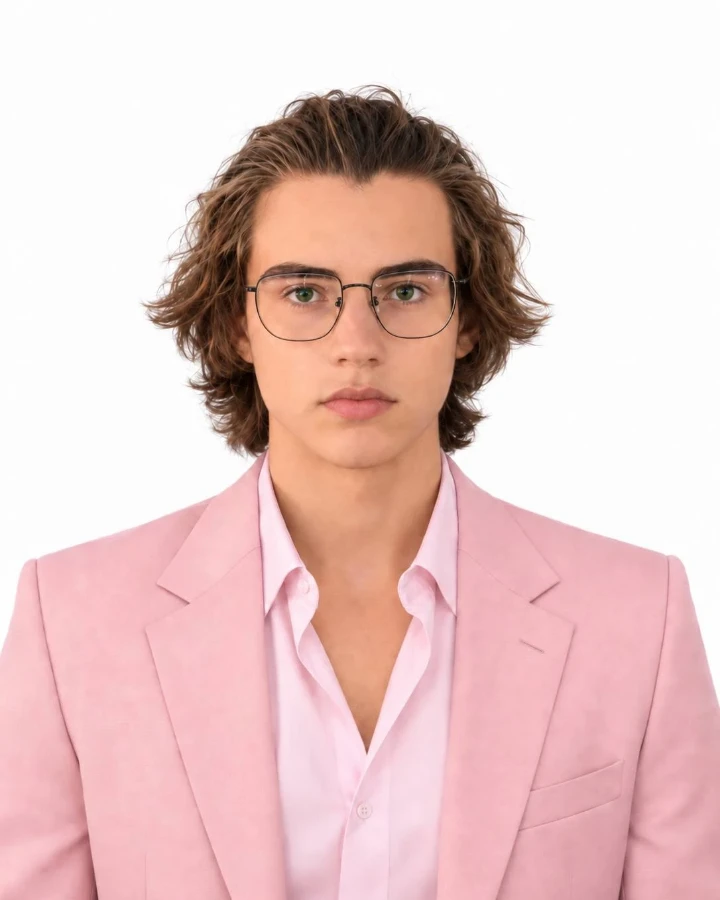
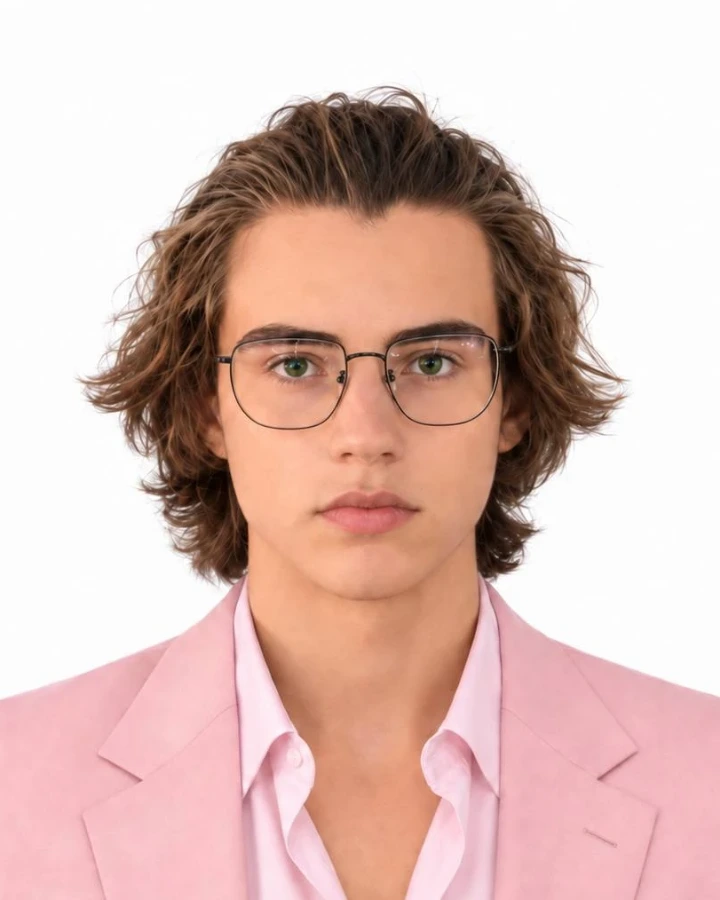
Выровнять размер голов на портретах команды
Голова Никиты была примерно в полтора раза шире, чем у Бориса: снимки
сделаны с разного расстояния.

Уменьшить фотографию Никиты не получилось бы без потерь — его кадр уже
использует всю высоту исходника, и любое отдаление оставило бы пустую
полосу под плечами. Поэтому вместо этого приближен Борис: его снимок
сделан «в полный рост», запаса по кадру там достаточно, и перекадрирование
обходится без подрисовки.

Кроп подобран так, чтобы ширина головы совпала с Никитой, а макушка
осталась на прежней высоте — 10,4% против 10,3%, разница около пикселя.
Оба портрета по-прежнему 720x900, поэтому общее правило
object-position: center 10% продолжает держать головы на одном уровне на
всех ширинах экрана.

В README папки добавлено требование к ширине головы: без него следующий
снимок снова приедет с другого расстояния.

Claude-Session: https://claude.ai/code/session_01EJhTBfDuUdkSFjF86i9JtA

diff --git a/client/public/team/README.md b/client/public/team/README.md
@@ -23,7 +23,15 @@
 - формат **720×900** (4:5);
 - **макушка на 10,6% высоты кадра** — то есть примерно в 95 пикселях от
   верхнего края;
+- **ширина головы около 180 px** в отрисованной карточке — то есть снимок
+  должен быть кадрирован «по грудь», а не в полный рост;
 - лицо по центру по горизонтали.
+
+Второй пункт отвечает за вертикальный уровень, третий — за одинаковый размер
+голов. Оба обязательны: если снимок сделан с другого расстояния, голова
+окажется заметно крупнее или мельче соседних, даже стоя на нужной высоте.
+Перекадрировать «ближе» можно всегда, «дальше» — только если в исходнике есть
+запас по высоте; иначе снизу появится пустая полоса.
 
 Тогда `object-fit: cover` ведёт себя одинаково на всех ширинах экрана, и
 головы не разъезжаются по брейкпоинтам. Сдвиг `object-position: center 10%`
